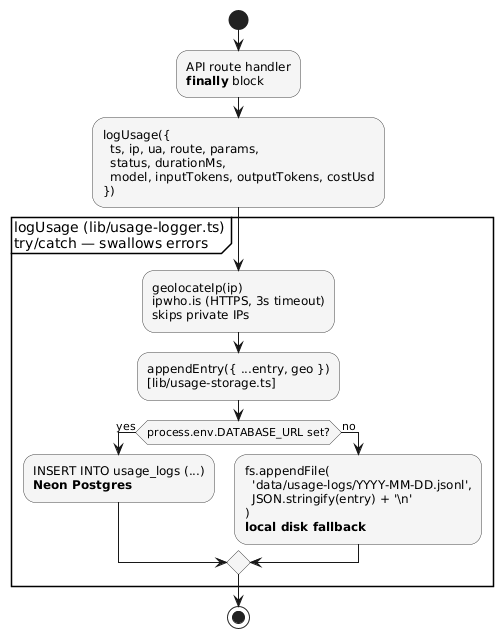
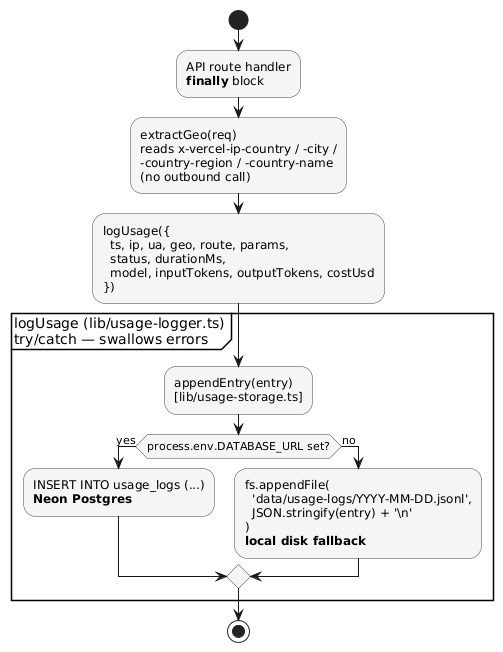
Update portfolio docs to reflect Vercel-edge geo headers (#57)
* Fix usage-log geo lookup; add admin nav; dedupe streaming icons

- Switch geo capture from ipwho.is (failing 100% of the time from Vercel
  egress) to Vercel's built-in x-vercel-ip-* edge headers — no external
  fetch, no rate limit, no silent failures. The usage-logs admin panel
  now renders country flags and city tooltips for new entries.
- Add a small "Admin" link in the top nav (visible on desktop and mobile)
  and Home-icon back links on /admin, /eval, and /usage-logs.
- Dedupe streaming platforms by canonical name in getAvailablePlatforms,
  fixing a React duplicate-key warning when TVDB returns both "hbo max"
  and "max" (and equivalent aliases for Apple TV+, Prime Video, etc.).

* Update portfolio docs to reflect Vercel-edge geo headers

The geo provider was swapped from ipwho.is to Vercel's built-in
x-vercel-ip-* edge headers (no outbound call). This updates the
portfolio documentation to match:

- 00-product-design-brief.md: third-party services table
- 03-data-model-reference.md: GeoInfo source comment
- 06-ai-safety-and-hardening.md: removed obsolete SSRF row
- 08-observability-and-cost-tracking.md: rewrote the "geo provider swap"
  retro with the full story (ip-api -> ipwho.is -> Vercel headers) and
  the lesson about silent catch{} blocks
- usage-logging-flow.puml: replaced geolocateIp step with extractGeo
- runtime-topology.puml: removed ipwho.is external component
- recommendation-pipeline.puml: updated logUsage geo source
[…]

Changed region(s): [[0.0, 0.0596, 0.9841, 0.9828]]

diff --git a/lib/usage-logger.ts b/lib/usage-logger.ts
@@ -14,36 +14,9 @@ export function calcCost(model: string, inputTokens: number, outputTokens: numbe
   return costs.input * inputTokens + costs.output * outputTokens
 }
 
-const LOCAL_IPS = new Set(['unknown', '127.0.0.1', '::1', 'localhost'])
-
-async function geolocateIp(ip: string): Promise<GeoInfo> {
-  if (LOCAL_IPS.has(ip) || ip.startsWith('192.168.') || ip.startsWith('10.')) return {}
-  try {
-    // ipwho.is: HTTPS, no API key required, 10k requests/month free.
-    // Chosen over ip-api.com (HTTP-only, 45/min per source IP — too tight for
-    // Vercel's shared egress IP pool) so geo lookups don't silently fail in prod.
-    const res = await fetch(
-      `https://ipwho.is/${ip}?fields=success,country,country_code,city,region`,
-      { signal: AbortSignal.timeout(3000) }
-    )
-    if (!res.ok) return {}
-    const data = await res.json()
-    if (data.success === false) return {}
-    return {
-      city: data.city || undefined,
-      region: data.region || undefined,
-      country: data.country || undefined,
-      countryCode: data.country_code || undefined,
-    }
-  } catch {
-    return {}
-  }
-}
-
 export async function logUsage(entry: UsageLogEntry): Promise<void> {
   try {
-    const geo = await geolocateIp(entry.ip)
-    await appendEntry({ ...entry, geo })
+    await appendEntry(entry)
   } catch (err) {
     console.error('[usage-logger] write failed:', err)
   }
@@ -56,4 +29,20 @@ export function extractIp(req: Request): string {
 
 export function extractUa(req: Request): string {
   return (req.headers.get('user-agent') ?? 'unknown').slice(0, 200)
+}
+
+// Vercel populates these headers at the edge for every incoming request.
+// Locally (next dev), they're absent → returns an empty GeoInfo, which the
+// admin UI handles via its IP-only fallback.
+export function extractGeo(req: Request): GeoInfo {
+  const countryCode = req.headers.get('x-vercel-ip-country') ?? undefined
+  const cityEncoded = req.headers.get('x-vercel-ip-city')
+  const region = req.headers.get('x-vercel-ip-country-region') ?? undefined
+  const countryName = req.headers.get('x-vercel-ip-country-name') ?? undefined
+  return {
+    city: cityEncoded ? decodeURIComponent(cityEncoded) : undefined,
+    region,
+    country: countryName ?? countryCode,
+    countryCode,
+  }
 }

diff --git a/app/eval/page.tsx b/app/eval/page.tsx
@@ -1,10 +1,22 @@
 'use client'
 
+import Link from 'next/link'
+import { Home } from 'lucide-react'
 import { EvalPanel } from '@/components/admin/eval-panel'
 
 export default function EvalPage() {
   return (
-    <div className="min-h-screen bg-background pt-8">
+    <div className="min-h-screen bg-background">
+      <div className="border-b border-border px-6 py-4 flex items-center gap-3">
+        <Link
+          href="/"
+          aria-label="Back to app"
+          className="text-muted-foreground hover:text-foreground transition-colors"
+        >
+          <Home className="w-4 h-4" />
+        </Link>
+        <h1 className="text-lg font-semibold">Eval</h1>
+      </div>
       <EvalPanel />
     </div>
   )

diff --git a/app/usage-logs/page.tsx b/app/usage-logs/page.tsx
@@ -1,10 +1,22 @@
 'use client'
 
+import Link from 'next/link'
+import { Home } from 'lucide-react'
 import { UsageLogsPanel } from '@/components/admin/usage-logs-panel'
 
 export default function UsageLogsPage() {
   return (
-    <div className="min-h-screen bg-background pt-8">
+    <div className="min-h-screen bg-background">
+      <div className="border-b border-border px-6 py-4 flex items-center gap-3">
+        <Link
+          href="/"
+          aria-label="Back to app"
+          className="text-muted-foreground hover:text-foreground transition-colors"
+        >
+          <Home className="w-4 h-4" />
+        </Link>
+        <h1 className="text-lg font-semibold">Usage Logs</h1>
+      </div>
       <UsageLogsPanel />
     </div>
   )

diff --git a/lib/streaming-platforms.ts b/lib/streaming-platforms.ts
@@ -111,7 +111,13 @@ export function getAvailablePlatforms(
   platformNames: string[] | undefined
 ): StreamingPlatform[] {
   if (!platformNames) return []
-  return platformNames
-    .map((name) => getPlatformInfo(name))
-    .filter((p): p is StreamingPlatform => p !== null)
+  const seen = new Set<string>()
+  const result: StreamingPlatform[] = []
+  for (const name of platformNames) {
+    const platform = getPlatformInfo(name)
+    if (!platform || seen.has(platform.name)) continue
+    seen.add(platform.name)
+    result.push(platform)
+  }
+  return result
 }

diff --git a/app/admin/page.tsx b/app/admin/page.tsx
@@ -1,5 +1,7 @@
 'use client'
 
+import Link from 'next/link'
+import { Home } from 'lucide-react'
 import { Tabs, TabsContent, TabsList, TabsTrigger } from '@/components/ui/tabs'
 import { EvalPanel } from '@/components/admin/eval-panel'
 import { UsageLogsPanel } from '@/components/admin/usage-logs-panel'
@@ -8,7 +10,14 @@ import { DemoCachePanel } from '@/components/admin/demo-cache-panel'
 export default function AdminPage() {
   return (
     <div className="min-h-screen bg-background">
-      <div className="border-b border-border px-6 py-4">
+      <div className="border-b border-border px-6 py-4 flex items-center gap-3">
+        <Link
+          href="/"
+          aria-label="Back to app"
+          className="text-muted-foreground hover:text-foreground transition-colors"
+        >
+          <Home className="w-4 h-4" />
+        </Link>
         <h1 className="text-lg font-semibold">NextUpTV Admin</h1>
       </div>
       <Tabs defaultValue="logs" className="w-full">

diff --git a/lib/usage-storage.ts b/lib/usage-storage.ts
@@ -3,8 +3,6 @@ import path from 'path'
 import { neon } from '@neondatabase/serverless'
 import type { GeoInfo, UsageLogEntry } from './types'
 
-type EntryWithGeo = UsageLogEntry & { geo?: GeoInfo }
-
 export interface ListResult {
   entries: UsageLogEntry[]
   total: number
@@ -13,7 +11,7 @@ export interface ListResult {
 
 const isNeonConfigured = () => Boolean(process.env.DATABASE_URL)
 
-export async function appendEntry(entry: EntryWithGeo): Promise<void> {
+export async function appendEntry(entry: UsageLogEntry): Promise<void> {
   if (isNeonConfigured()) {
     await appendEntryNeon(entry)
   } else {
@@ -30,7 +28,7 @@ export async function listEntries(opts: { limit: number; date?: string }): Promi
 
 // --- Neon backend -----------------------------------------------------------
 
-async function appendEntryNeon(entry: EntryWithGeo): Promise<void> {
+async function appendEntryNeon(entry: UsageLogEntry): Promise<void> {
   const sql = neon(process.env.DATABASE_URL!)
   await sql`
     INSERT INTO usage_logs (
@@ -89,7 +87,7 @@ function todayFilePath() {
   return path.join(LOG_DIR, `${new Date().toISOString().slice(0, 10)}.jsonl`)
 }
 
-async function appendEntryLocal(entry: EntryWithGeo): Promise<void> {
+async function appendEntryLocal(entry: UsageLogEntry): Promise<void> {
   await fs.mkdir(LOG_DIR, { recursive: true })
   await fs.appendFile(todayFilePath(), JSON.stringify(entry) + '\n', 'utf-8')
 }

diff --git a/app/api/recommendations/route.ts b/app/api/recommendations/route.ts
@@ -12,7 +12,7 @@ import {
   sanitizeReason,
 } from '@/lib/title-utils'
 import { sseEvent, sseResponse } from '@/lib/sse'
-import { logUsage, extractIp, extractUa, calcCost } from '@/lib/usage-logger'
+import { logUsage, extractIp, extractUa, extractGeo, calcCost } from '@/lib/usage-logger'
 
 const anthropic = new Anthropic()
 
@@ -51,10 +51,11 @@ export async function POST(req: NextRequest) {
   const startedAt = Date.now()
   const ip = extractIp(req)
   const ua = extractUa(req)
+  const geo = extractGeo(req)
 
   if (new URL(req.url).searchParams.get('test') === 'true') {
     logUsage({
-      ts: new Date().toISOString(), ip, ua, route: 'recommendations',
+      ts: new Date().toISOString(), ip, ua, geo, route: 'recommendations',
       params: { fileContentChars: 0, keywordsChars: 0, count: 20, isTest: true },
       status: 'success', durationMs: Date.now() - startedAt,
     })
@@ -253,7 +254,7 @@ export async function POST(req: NextRequest) {
       } finally {
         controller.close()
         await logUsage({
-          ts: new Date().toISOString(), ip, ua, route: 'recommendations',
+          ts: new Date().toISOString(), ip, ua, geo, route: 'recommendations',
           params: { fileContentChars, keywordsChars, count, isTest: false, timings },
           status: streamErrored ? 'error' : 'success',
           durationMs: Date.now() - startedAt,

diff --git a/components/top-navigation.tsx b/components/top-navigation.tsx
@@ -47,6 +47,13 @@ export function TopNavigation({ currentPage, onPageChange }: TopNavigationProps)
               </button>
             ))}
           </nav>
+
+          <a
+            href="/admin"
+            className="ml-auto text-xs text-muted-foreground hover:text-foreground transition-colors"
+          >
+            Admin
+          </a>
         </div>
       </header>
 

diff --git a/app/api/library-status/route.ts b/app/api/library-status/route.ts
@@ -2,7 +2,7 @@ import { NextRequest } from 'next/server'
 import { getAuthToken } from '@/lib/tvdb'
 import type { LibraryShow } from '@/lib/types'
 import { sseEvent, sseResponse } from '@/lib/sse'
-import { logUsage, extractIp, extractUa } from '@/lib/usage-logger'
+import { logUsage, extractIp, extractUa, extractGeo } from '@/lib/usage-logger'
 
 const TVDB_BASE = 'https://api4.thetvdb.com/v4'
 const CACHE_TTL = 4 * 60 * 60 * 1000
@@ -154,6 +154,7 @@ export async function POST(req: NextRequest) {
   const startedAt = Date.now()
   const ip = extractIp(req)
   const ua = extractUa(req)
+  const geo = extractGeo(req)
 
   let fileContent: string
   try {
@@ -224,7 +225,7 @@ export async function POST(req: NextRequest) {
       } finally {
         controller.close()
         await logUsage({
-          ts: new Date().toISOString(), ip, ua, route: 'library-status',
+          ts: new Date().toISOString(), ip, ua, geo, route: 'library-status',
           params: { fileContentChars: fileContent.length, titleCount: titles.length },
           status: streamErrored ? 'error' : 'success',
           durationMs: Date.now() - startedAt,

diff --git a/app/api/show-details/route.ts b/app/api/show-details/route.ts
@@ -1,7 +1,7 @@
 import { NextRequest, NextResponse } from 'next/server'
 import { getAuthToken } from '@/lib/tvdb'
 import type { ShowDetails, CastMember } from '@/lib/types'
-import { logUsage, extractIp, extractUa } from '@/lib/usage-logger'
+import { logUsage, extractIp, extractUa, extractGeo } from '@/lib/usage-logger'
 
 const TVDB_BASE = 'https://api4.thetvdb.com/v4'
 const CACHE_TTL = 60 * 60 * 1000
@@ -15,12 +15,13 @@ export async function GET(req: NextRequest) {
   const startedAt = Date.now()
   const ip = extractIp(req)
   const ua = extractUa(req)
+  const geo = extractGeo(req)
   const { searchParams } = new URL(req.url)
   const tvdbId = searchParams.get('tvdbId') ?? ''
 
   const respond = async (response: NextResponse, logStatus: 'success' | 'error') => {
     await logUsage({
-      ts: new Date().toISOString(), ip, ua, route: 'show-details',
+      ts: new Date().toISOString(), ip, ua, geo, route: 'show-details',
       params: { tvdbId }, status: logStatus, durationMs: Date.now() - startedAt,
     })
     return response

diff --git a/docs/portfolio/08-observability-and-cost-tracking.md b/docs/portfolio/08-observability-and-cost-tracking.md
@@ -33,9 +33,9 @@ This project added usage logging (commit `fefc7c5: Add usage logging with geo, c
 
 Logging is implemented in `lib/usage-logger.ts` as an `async` function called in the `finally` block of each API route. It is non-blocking: the server response is sent before the log write completes.
 
-The write path is split across two files: `lib/usage-logger.ts` owns the domain logic (cost calculation, IP geolocation), and `lib/usage-storage.ts` owns persistence. The storage layer chooses between two backends at runtime based on whether `DATABASE_URL` is defined in the environment.
+The write path is split across two files: `lib/usage-logger.ts` owns the domain logic (cost calculation, geo extraction from Vercel edge headers), and `lib/usage-storage.ts` owns persistence. The storage layer chooses between two backends at runtime based on whether `DATABASE_URL` is defined in the environment.
 
-![Usage logging flow — finally block calls logUsage, which geolocates then appends entry to Neon Postgres or local JSONL](assets/diagrams/usage-logging-flow.png)
+![Usage logging flow — finally block calls logUsage, which reads Vercel geo headers then appends entry to Neon Postgres or local JSONL](assets/diagrams/usage-logging-flow.png)
 
 **Production storage (Vercel + Neon):** When deployed, the app writes to a Postgres `usage_logs` table on Neon using the `@neondatabase/serverless` HTTP driver. Concurrent writes are handled by Postgres natively (no race conditions). Preview deploys use a branched copy of the database — preview traffic does not pollute production logs.
 
@@ -43,7 +43,7 @@ The write path is split across two files: `lib/usage-logger.ts` owns the domain 
 
 **Schema:** The `usage_logs` table uses typed columns for the universal/queryable fields (`ts`, `route`, `cost_usd`, `duration_ms`, token counts) and JSONB columns for the polymorphic `params` and optional `geo` block. This hybrid layout matches how the JSONL records were already shaped and keeps the queryable surface SQL-friendly without forcing rigid columns onto fields that legitimately vary by route. Schema definition lives at `lib/db/schema.sql` and was applied once via the Neon SQL console — no migration tooling is needed for a single table.
 
-**Failure handling:** The log write is wrapped in a `try/catch`. If it fails (DB unreachable, geo API timeout, disk full in local mode), the error is logged to `console.error` and silently swallowed — a logging failure never propagates to the user response.
+**Failure handling:** The log write is wrapped in a `try/catch`. If it fails (DB unreachable, disk full in local mode), the error is logged to `console.error` and silently swallowed — a logging failure never propagates to the user response.
 
 ---
 
@@ -199,13 +199,13 @@ The admin interface was consolidated in commit `3415c94: Add demo cache, sample 
 
 **`inputText` now captures the full prompt, not just keywords.** The original capture only stored the typed keywords box, leaving the Input column blank for file-only requests (the common case). It now stores `--- Uploaded favourites ---\n<file>` and `--- Keywords ---\n<keywords>` as separate labelled sections so the admin viewer reproduces the full user-facing prompt.
 
-**Geo provider swap.** `ip-api.com` (HTTP, 45 requests/minute per source IP) was replaced by `ipwho.is` (HTTPS, 10k requests/month, no key). On Vercel, all serverless functions in a region share a small egress IP pool, so the per-IP per-minute quota was hit quickly across all users and geo lookups silently fell back to `{}`. The new provider has a per-IP-per-month quota at the source level rather than per-minute, which fits Vercel's egress profile.
+**Geolocation moved off external APIs entirely.** The first iteration called `ip-api.com` (HTTP, 45 requests/minute per source IP). When usage logs showed nearly all geo lookups silently falling back to `{}`, the cause was clear: Vercel functions in a region share a small egress IP pool, so the per-IP per-minute quota was exhausted across all users within seconds. The fix tried `ipwho.is` (HTTPS, 10k requests/month, no key) on the assumption that a per-month-per-source quota would fit Vercel's egress profile. It didn't — inspecting the database after the swap showed a 100% failure rate from Vercel; the `catch {}` had been masking that every call was failing. The eventual fix was to stop making outbound calls altogether and read Vercel's edge-populated headers (`x-vercel-ip-country`, `x-vercel-ip-city`, `x-vercel-ip-country-region`, `x-vercel-ip-country-name`) — free, instant, zero-failure. The lesson worth keeping: when the platform already provides what you're paying a third party for, reach for the platform first; and a silent `catch {}` around external calls is exactly the place where a one-line `console.warn` on failure pays for itself many times over.
 
 ---
 
 ## Supporting File References
 
-- [`lib/usage-logger.ts`](../../lib/usage-logger.ts) — `logUsage()`, `calcCost()`, `extractIp()`, `extractUa()`
+- [`lib/usage-logger.ts`](../../lib/usage-logger.ts) — `logUsage()`, `calcCost()`, `extractIp()`, `extractUa()`, `extractGeo()`
 - [`lib/usage-storage.ts`](../../lib/usage-storage.ts) — storage abstraction (Neon and local-disk backends), `appendEntry()` and `listEntries()`
 - [`lib/db/schema.sql`](../../lib/db/schema.sql) — one-shot Postgres schema for the `usage_logs` table
 - [`lib/types.ts`](../../lib/types.ts)`:93–133` — usage logging types

diff --git a/docs/portfolio/00-product-design-brief.md b/docs/portfolio/00-product-design-brief.md
@@ -100,7 +100,7 @@ The evaluation framework (see `[EVAL]`) was built specifically to make criteria 
 | **@anthropic-ai/sdk v0.95.2** | Anthropic client | Native streaming support (`messages.stream()`); typed response objects |
 | **TVDB v4 API** | TV metadata | Richer metadata than TVMaze (content ratings, extended cast, streaming platform companies); official API with stable endpoints; free tier covers this use case |
 | **Vercel** | Hosting | Zero-config Next.js deployment; SSE streaming supported natively; `maxDuration = 60` on long-running API routes |
-| **ipwho.is** | Geolocation | Free HTTPS API (10k requests/month, no key required) for IP → city/country lookup; used only in usage logging; fails gracefully. Replaced `ip-api.com` because its 45-request-per-minute-per-source-IP limit silently throttled Vercel's shared egress pool. |
+| **Vercel edge geo headers** | Geolocation | `x-vercel-ip-country`, `x-vercel-ip-city`, `x-vercel-ip-country-region`, `x-vercel-ip-country-name` are populated by Vercel at the edge on every request — used only in usage logging. Earlier iterations called external providers (`ip-api.com`, then `ipwho.is`); both were unreliable from Vercel's shared egress IP pool, so the code now reads what the platform already provides. |
 
 **What was replaced during development:** TVMaze was the initial metadata provider. It was replaced with TVDB in commit `d45dadc` after TVMaze was found to lack content ratings and to have weaker coverage for streaming platform data. See `[EDL]` for the full decision record.
 